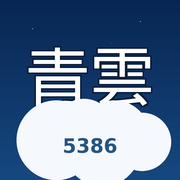
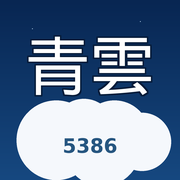
fix: move 青雲 text up to avoid overlapping cloud

Changed region(s): [[0.1389, 0.1944, 0.8611, 0.6111]]

diff --git a/scripts/generate_icon.py b/scripts/generate_icon.py
@@ -51,7 +51,7 @@ def draw_icon(size: int) -> Image.Image:
     tw = bbox[2] - bbox[0]
     th = bbox[3] - bbox[1]
     tx = (size - tw) // 2
-    ty = int(size * 0.18)
+    ty = int(size * 0.12)
 
     glow = max(2, size // 120)
     for dx in range(-glow, glow + 1):